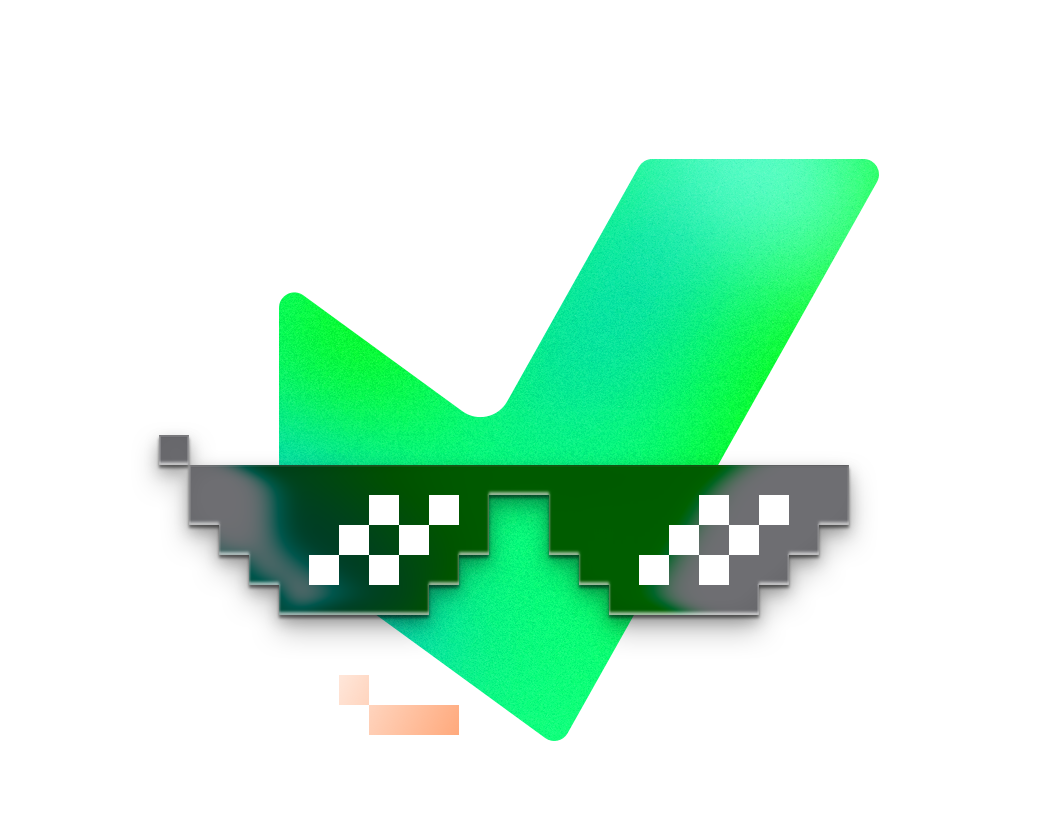
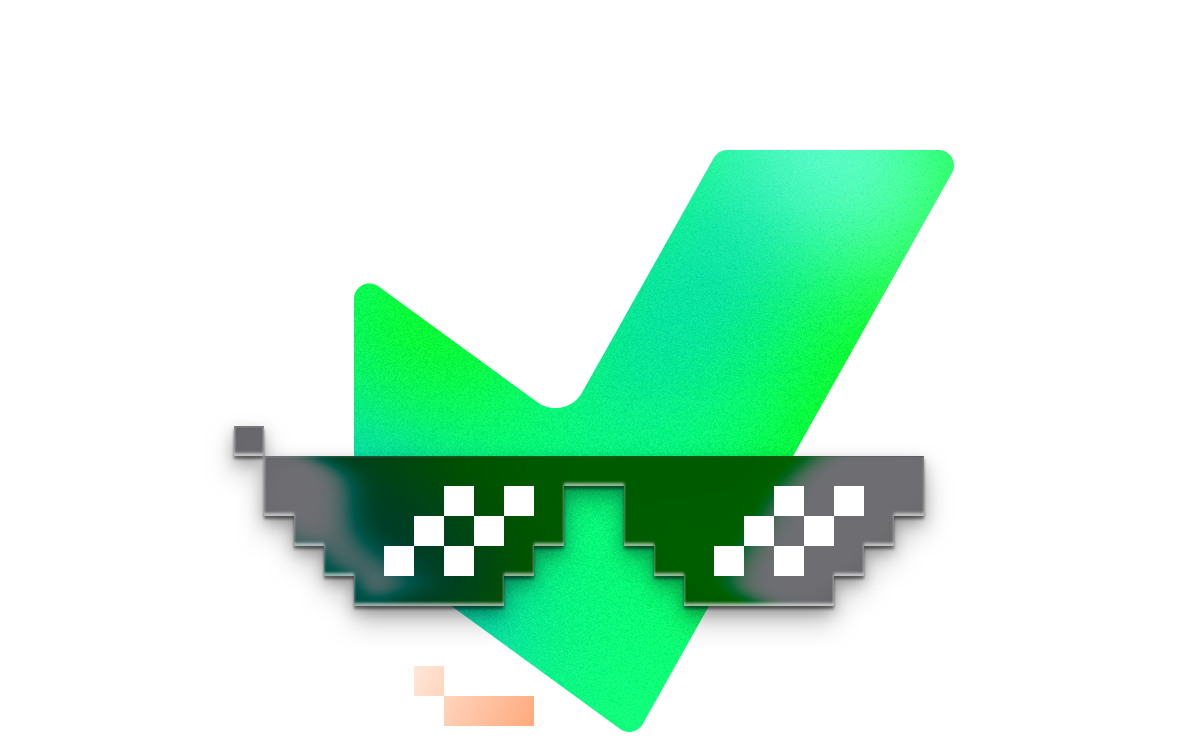
Adjust spacing

diff --git a/README.md b/README.md
@@ -1,5 +1,7 @@
 <p align="center">
-    <img src="assets/awesome-vitest@3x.png" width="350" height="275" alt="">
+    <a href="https://github.com/porada/awesome-vitest">
+        <img src="assets/awesome-vitest@3x.png" width="400" height="250" alt="">
+    </a>
 </p>
 
 <h1 align="center">
@@ -17,7 +19,9 @@
 </p>
 
 <p align="center">
-    <a href="https://awesome.re"><img src="https://awesome.re/badge-flat2.svg" alt="" /></a>
+    <a href="https://awesome.re">
+        <img src="https://awesome.re/badge-flat2.svg" alt="" />
+    </a>
 </p>
 
 ## Official Resources
